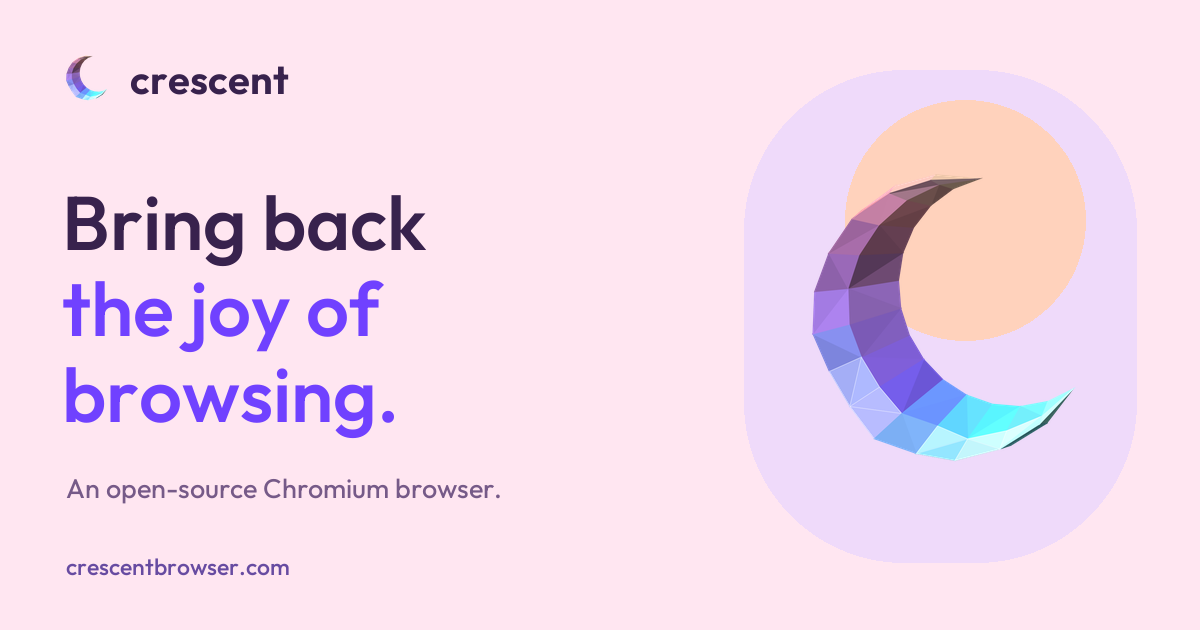
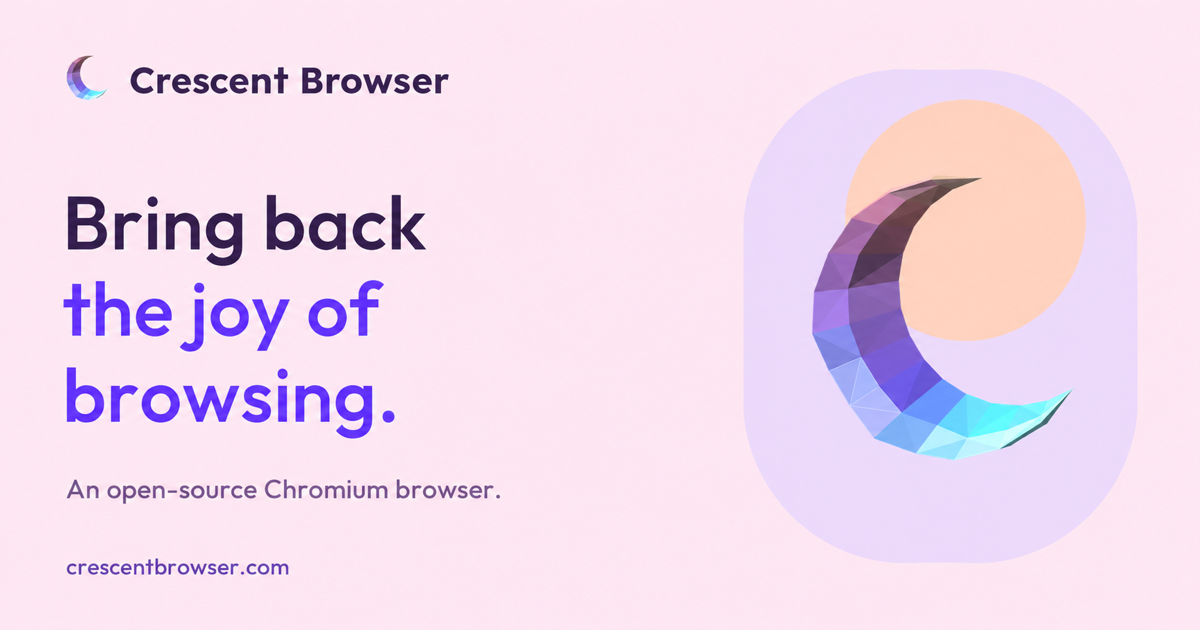
Update sharing card to Crescent Browser wordmark

diff --git a/docs/provenance.md b/docs/provenance.md
@@ -46,4 +46,11 @@ Zigzag (https://zigzagbrowser.com/) and Dia (https://www.diabrowser.com/) inform
 
 ## Search and sharing
 
-The 1200×630 social card is an original code-composed graphic using the existing Prism mark, Outfit font, and landing colors. Favicon/search/touch sizes derive from the same original mark. Metadata and JSON-LD describe the public project and website; no fabricated ratings, offers, release versions, or installed-platform availability are included.
+The 1200×630 social card started as an original code-composed graphic using the existing Prism mark, Outfit font, and landing colors. Its wordmark was changed to “Crescent Browser” with the built-in image generation tool on 2026-11-13, using the original card as the edit target, then resized to its existing delivery dimensions. The separate Prism logo assets are unchanged. Favicon/search/touch sizes derive from the same original mark. Metadata and JSON-LD describe the public project and website; no fabricated ratings, offers, release versions, or installed-platform availability are included.
+
+
+### Sharing image edit prompt
+
+Mode: built-in image generation, existing-image edit. Saved asset: `public/assets/crescent-social.png`.
+
+> Use case: text-localization. Edit target: the supplied Crescent Browser website social-sharing graphic. Change ONLY the small upper-left wordmark text from the lowercase word "crescent" to the exact text "Crescent Browser" (capital C, capital B, all other letters lowercase). Keep the same heavy rounded geometric Outfit-style font, dark purple ink, baseline, left position beside the small faceted crescent logo, and similar size. There is enough free horizontal space to extend the wordmark to the right. Preserve every other element as exactly as possible: the pale pink background, original faceted crescent artwork in both positions, the purple rounded right-side shape and peach circle, the headline "Bring back / the joy of / browsing.", the line "An open-source Chromium browser.", the URL "crescentbrowser.com", all colors, alignment, proportions and spacing. Keep the original 1200 by 630 pixel landscape canvas and composition. No new graphics, no extra text, no watermark. This is a precise existing-brand wordmark correction, not a redesign.
